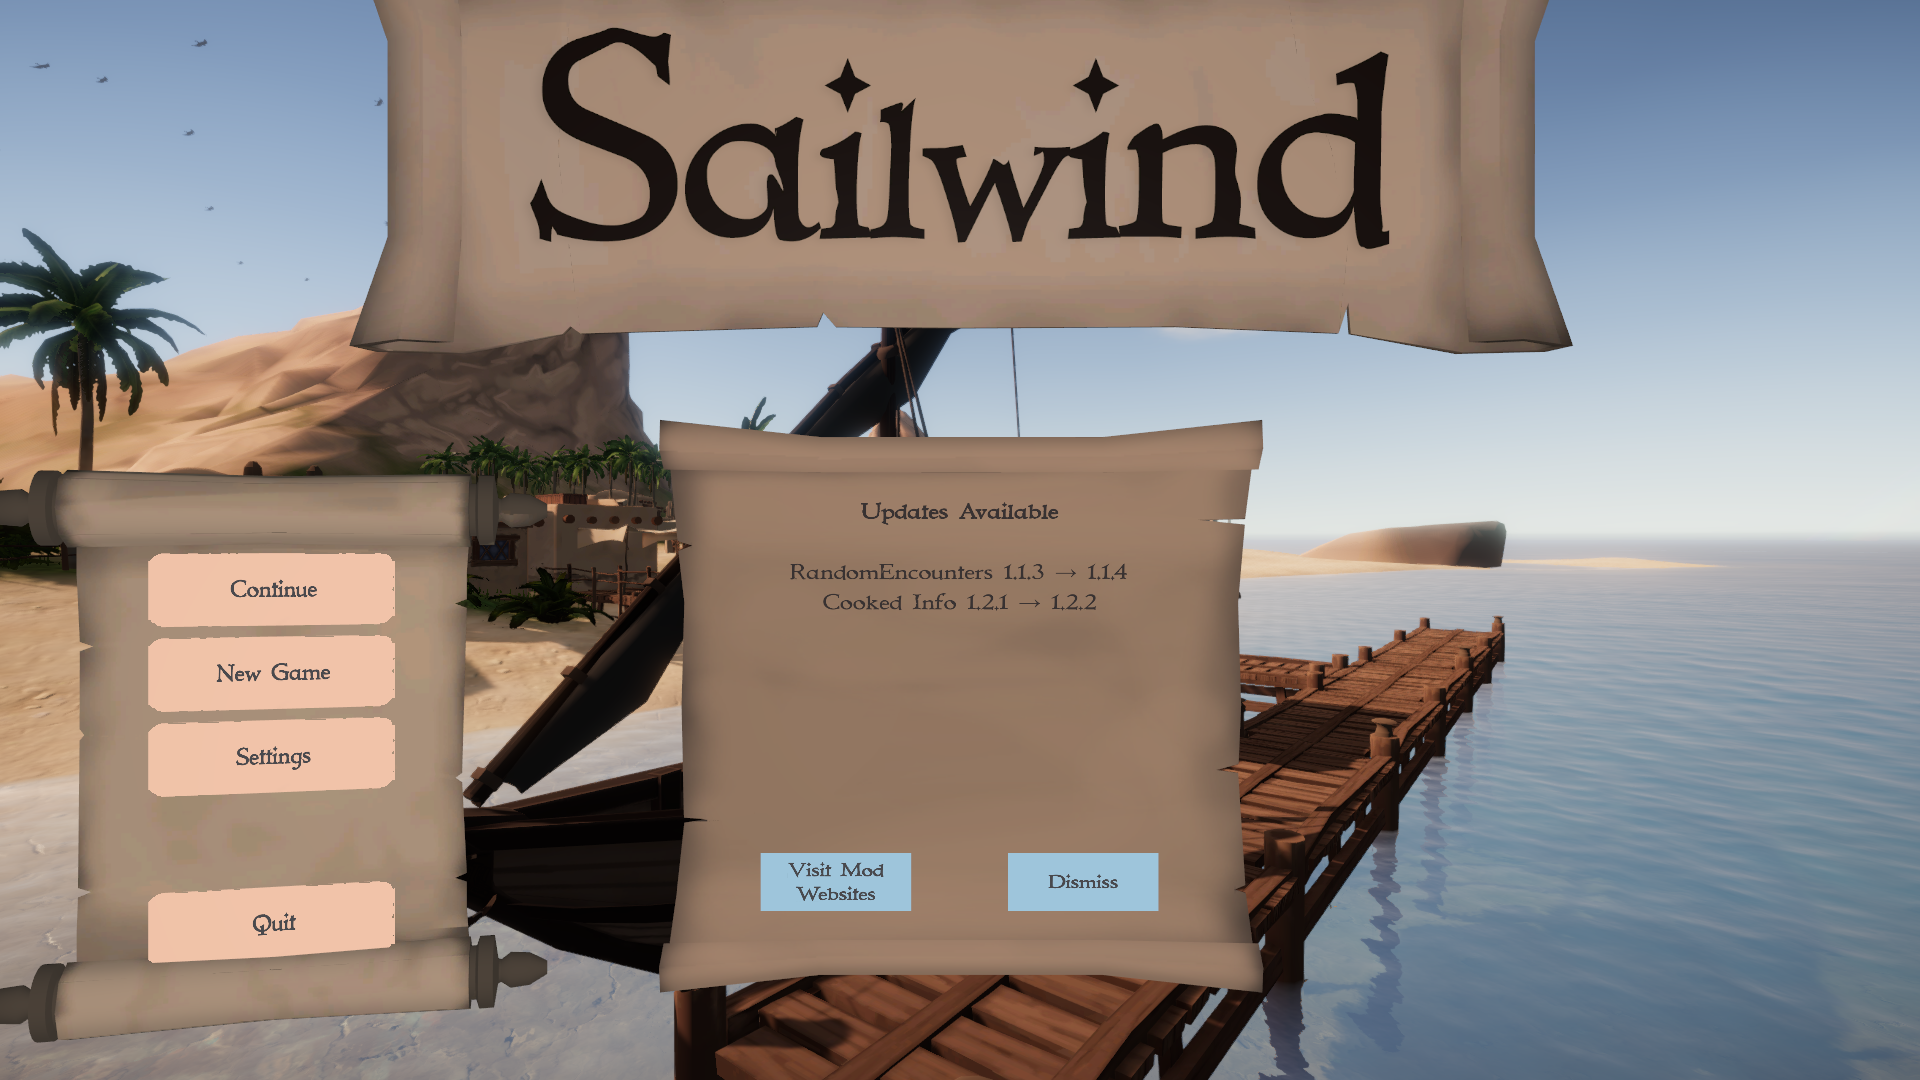
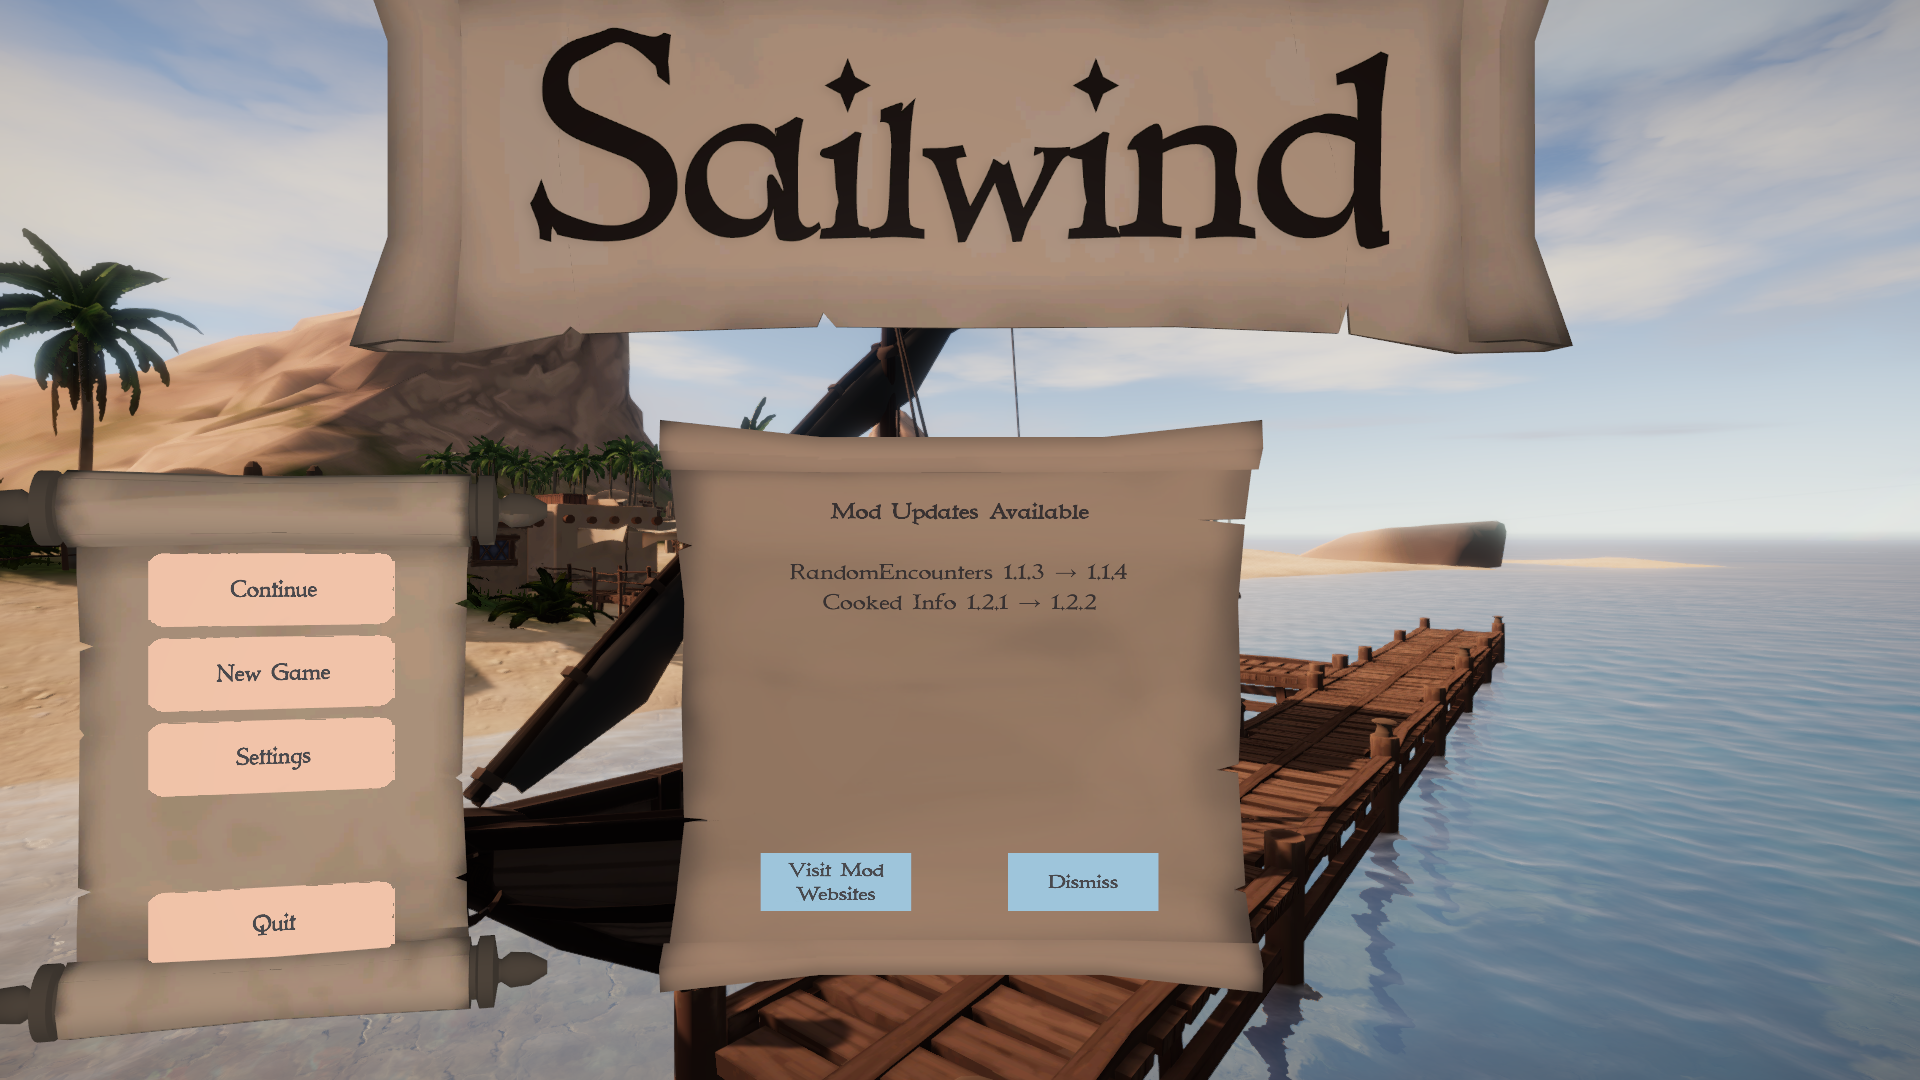
Update notification title

diff --git a/SailwindModVersionChecker/UpdatesUI.cs b/SailwindModVersionChecker/UpdatesUI.cs
@@ -27,7 +27,7 @@ namespace SailwindModVersionChecker
             Destroy(ui.transform.GetChild(2).gameObject);
             text.transform.localPosition = new Vector3(0f, 0.97f, 0.002f);
             textMesh = text.GetComponent<TextMesh>();
-            textMesh.text = "<b>Updates Available</b>\n\n";
+            textMesh.text = "<b>Mod Updates Available</b>\n\n";
             textMesh.fontSize = 50;
             textMesh.lineSpacing = 1.1f;
             
